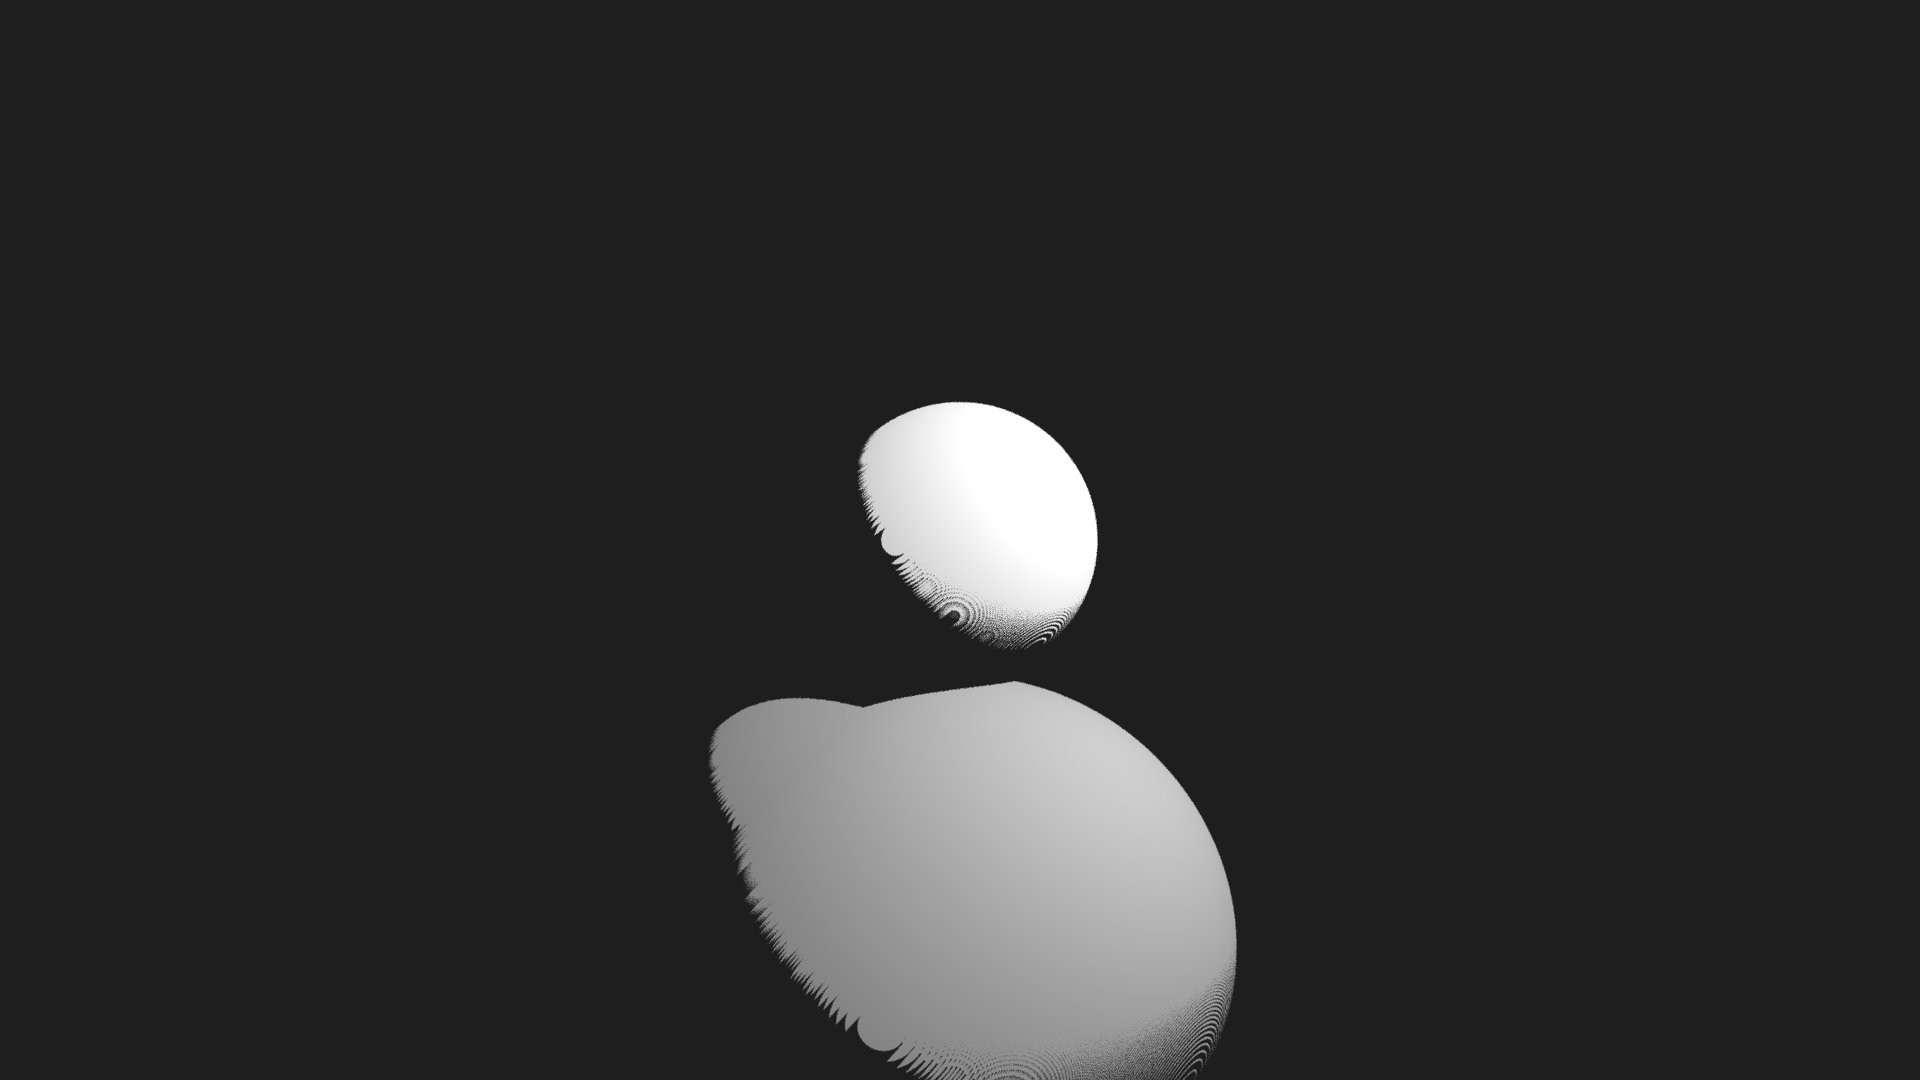
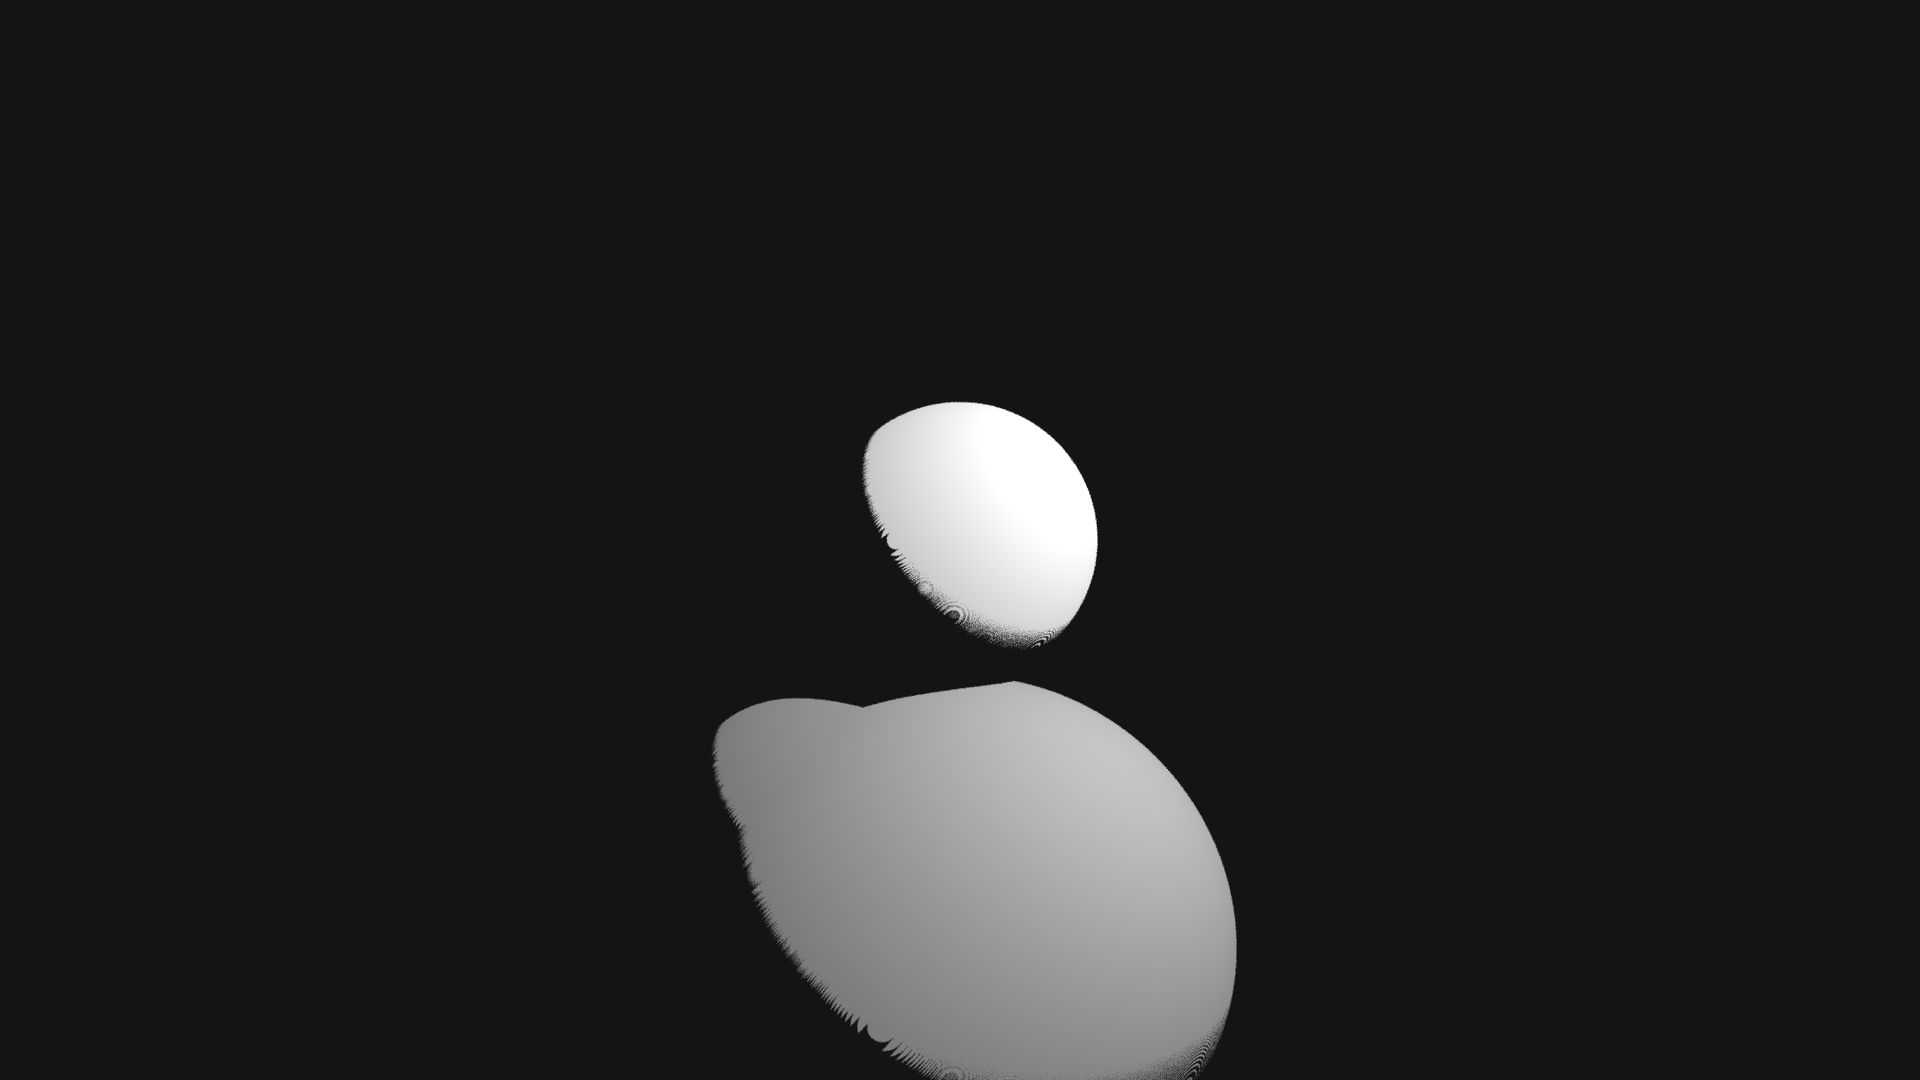
Updated scene1.

diff --git a/tests/scene1.cpp b/tests/scene1.cpp
@@ -22,7 +22,9 @@
 
 int main() {
     Shadowmap::Scene scene(0, -10, 3, 80);
-    scene.scene_light = 30;
+    scene.scene_light = 20;
+    scene.SHMAP_W = 8192;
+    scene.SHMAP_H = 4096;
     scene.add_sphere(0, 0, 0, 2);
     scene.add_sphere(0, 0, 3, 1);
     scene.add_sphere(-1, 0, 1, 1);
